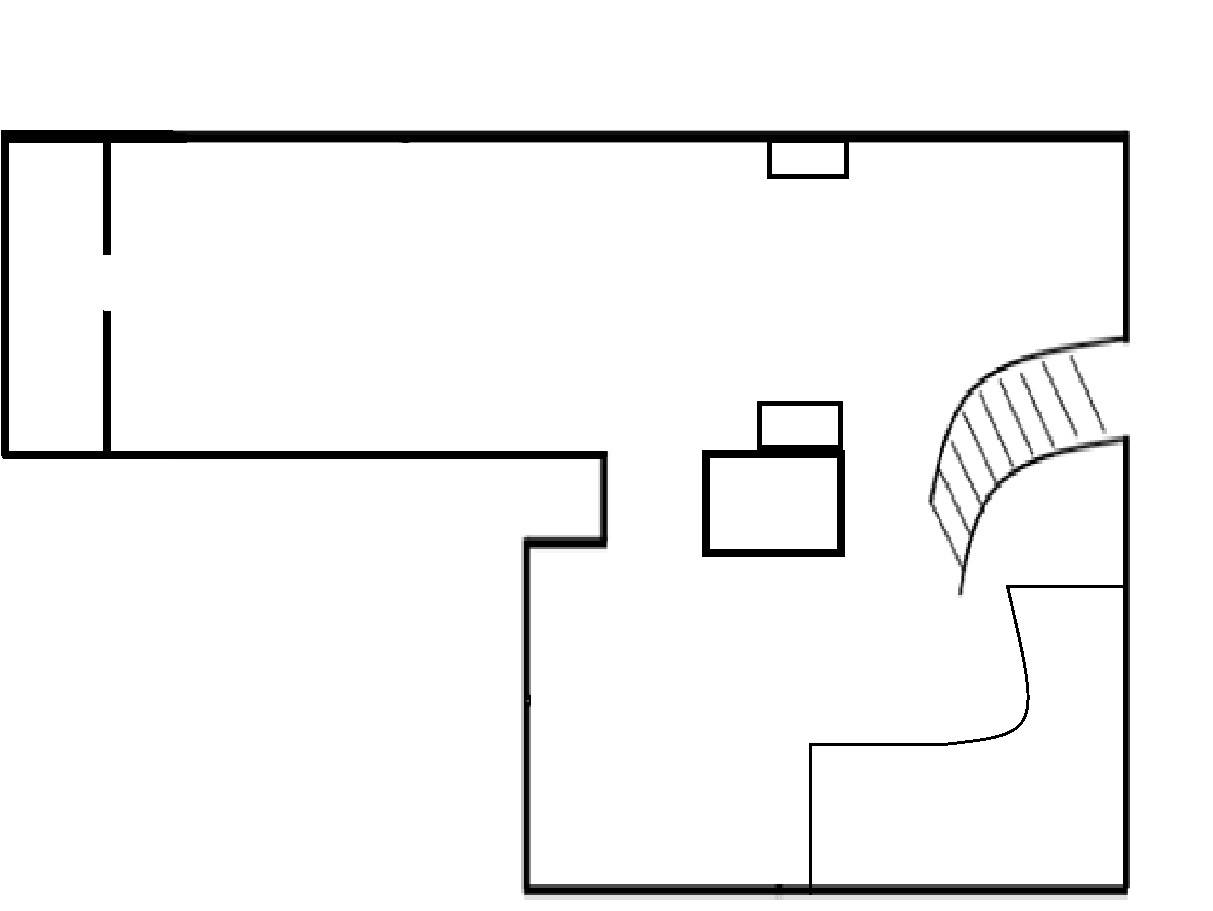
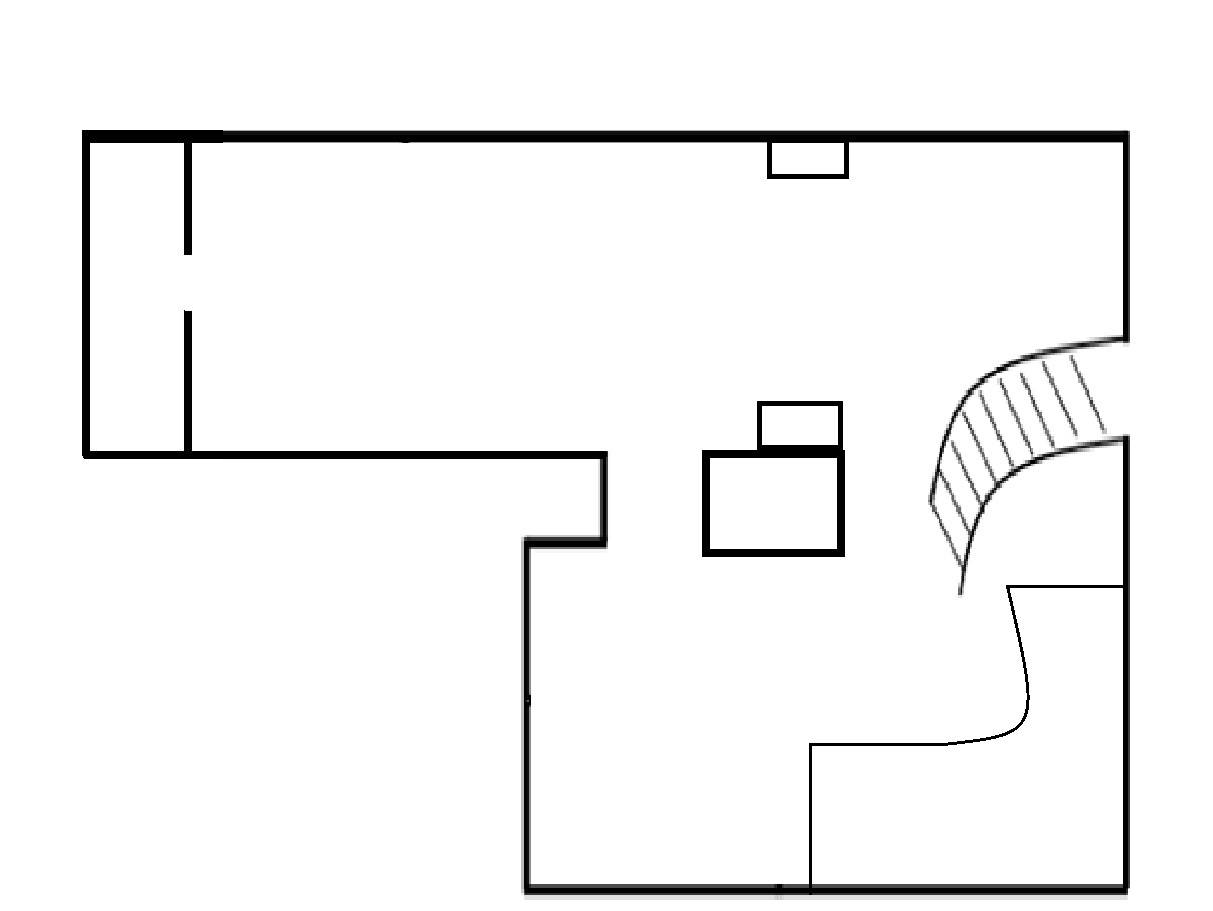
Update layout and reduce print margin.

Changed region(s): [[0.0, 0.1229, 0.0915, 0.5225], [0.1525, 0.3381, 0.183, 0.4918], [0.1525, 0.1537, 0.183, 0.2766]]

diff --git a/app/corelib/src/main/java/com/inspirationlogical/receipt/corelib/printing/ReceiptPdfCreator.java b/app/corelib/src/main/java/com/inspirationlogical/receipt/corelib/printing/ReceiptPdfCreator.java
@@ -98,7 +98,7 @@ public class ReceiptPdfCreator {
 
     private void initDocument(ByteArrayOutputStream os) throws DocumentException {
         document = new Document(new RectangleReadOnly(227, 600));
-        document.setMargins(0f, 24f, 0f, 6f);
+        document.setMargins(0f, 0f, 0f, 6f);
         PdfWriter.getInstance(document, os);
         document.open();
     }
